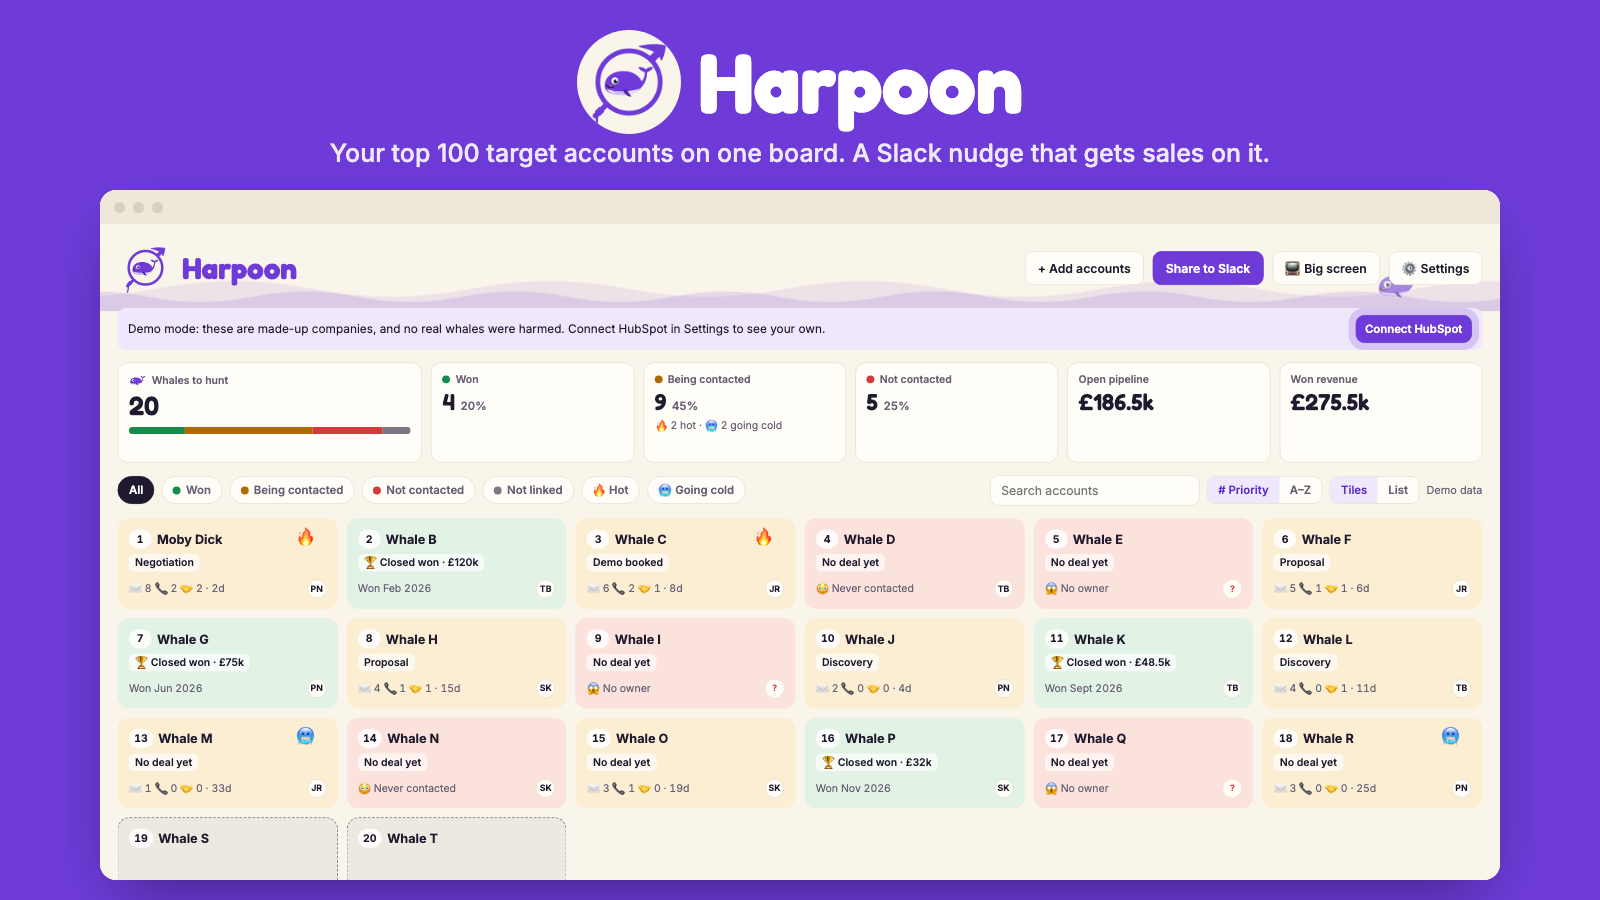
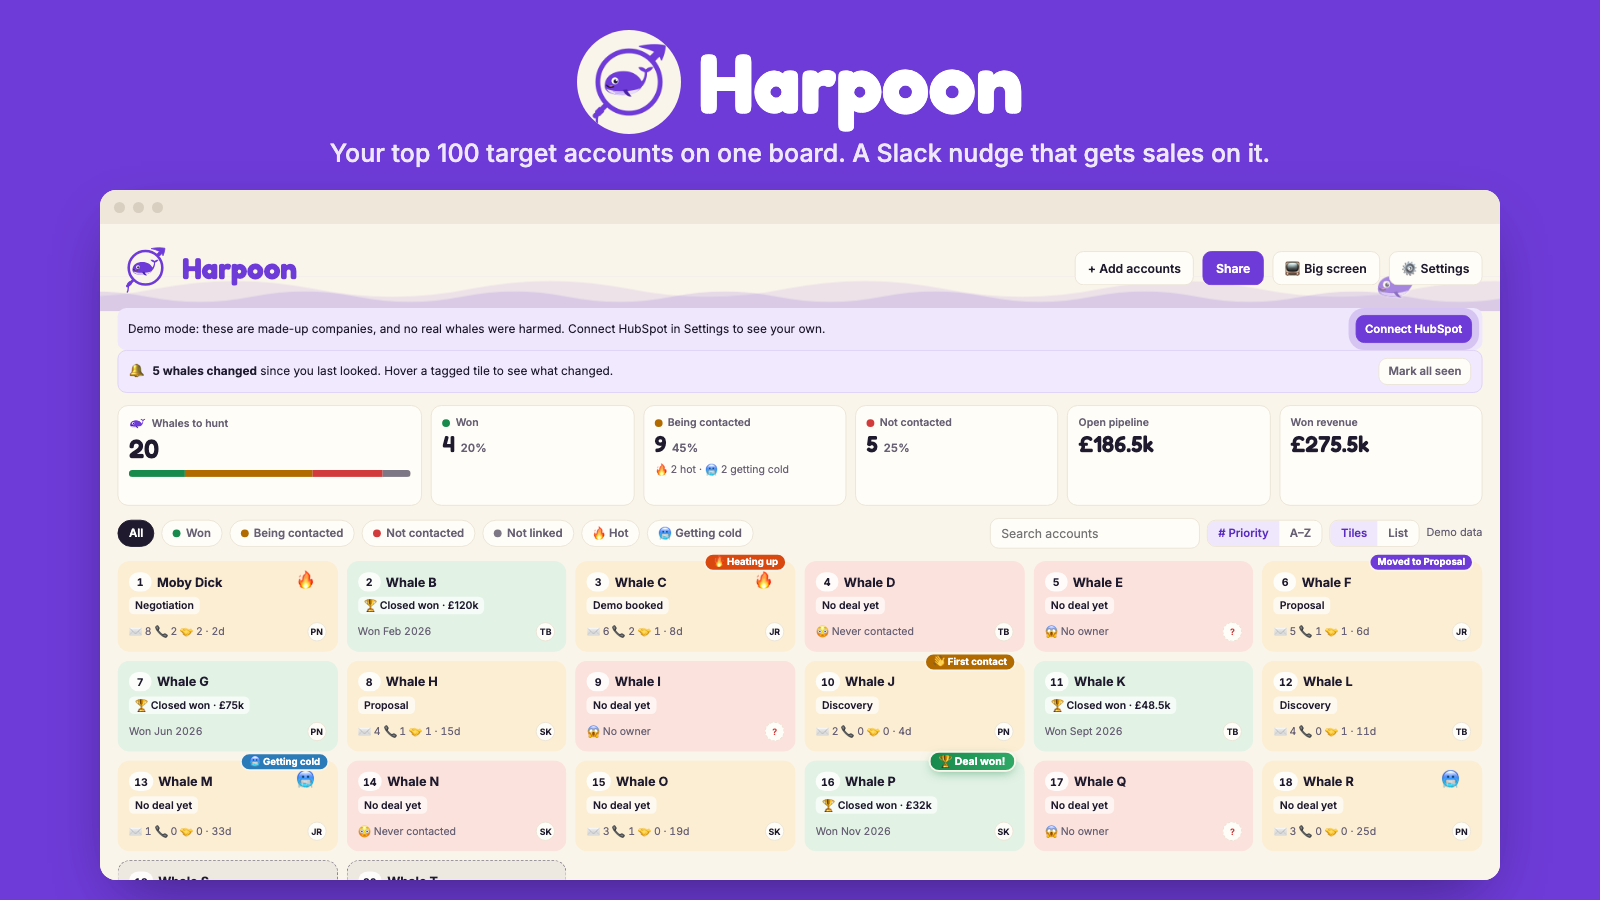
Batten down: "Going cold" is now "Getting cold" everywhere
- Filter, stats, tile tooltip, legend, Settings, the Slack message and
  the README all say "Getting cold", matching the change alerts.
- README cover image re-rendered with the new tags.

diff --git a/board.js b/board.js
@@ -114,7 +114,7 @@ function render() {
   renderBoard();
   renderLog();
   renderStatus();
-  $('legend').textContent = `🔥 Hot: ${S.hotTouches}+ touches and a touch in the last ${S.hotDays} days. 🥶 Going cold: no touch for ${S.coldDays}+ days. Change these in Settings.`;
+  $('legend').textContent = `🔥 Hot: ${S.hotTouches}+ touches and a touch in the last ${S.hotDays} days. 🥶 Getting cold: no touch for ${S.coldDays}+ days. Change these in Settings.`;
   document.querySelectorAll('#sortSeg button').forEach(b => b.setAttribute('aria-pressed', b.dataset.sort === (S.sort || 'rank')));
   document.querySelectorAll('#viewSeg button').forEach(b => b.setAttribute('aria-pressed', b.dataset.view === S.view));
 }
@@ -200,7 +200,7 @@ function renderStats() {
       <div class="bar" role="img" aria-label="${W} won, ${Y} being contacted, ${R} not contacted, ${G} not linked"><i style="width:${w(W)};background:var(--won)"></i><i style="width:${w(Y)};background:var(--amber)"></i><i style="width:${w(R)};background:var(--red)"></i><i style="width:${w(G)};background:var(--grey)"></i></div>
       <span class="hint hover-only">Ranked by priority, starting from #1</span></div>
     <div class="stat"><span class="k"><span class="dot" style="background:var(--won)"></span>Won</span><span class="v">${W} <small>${pct(W)}%</small></span></div>
-    <div class="stat"><span class="k"><span class="dot" style="background:var(--amber)"></span>Being contacted</span><span class="v">${Y} <small>${pct(Y)}%</small></span><span class="hint">🔥 ${hot} hot · 🥶 ${cold} going cold</span></div>
+    <div class="stat"><span class="k"><span class="dot" style="background:var(--amber)"></span>Being contacted</span><span class="v">${Y} <small>${pct(Y)}%</small></span><span class="hint">🔥 ${hot} hot · 🥶 ${cold} getting cold</span></div>
     <div class="stat"><span class="k"><span class="dot" style="background:var(--red)"></span>Not contacted</span><span class="v">${R} <small>${pct(R)}%</small></span></div>
     <div class="stat"><span class="k">Open pipeline</span><span class="v">${money(pipe, S.currency) || S.currency + '0'}</span></div>
     <div class="stat"><span class="k">Won revenue</span><span class="v">${money(wonAmt, S.currency) || S.currency + '0'}</span></div>`;
@@ -227,7 +227,7 @@ function tileInner(a) {
   else if (a.s === 'won') sub = `<span>${a.won && a.won.date ? 'Won ' + monthYear(a.won.date) : 'Customer'}</span>`;
   else if (a.s === 'red') sub = `<span>${a.why === 'noowner' ? '😱 No owner' : '😳 Never contacted'}</span>`;
   else sub = `<span>${a.missing ? 'Gone from HubSpot' : 'Not in HubSpot yet'}</span>`;
-  return `<span class="top"><span class="name"><span class="rk" title="Priority #${a.rank}">${a.rank}</span>${esc(a.name)}</span>${h ? `<span class="heat" title="${h === 'hot' ? 'Hot' : 'Going cold'}">${HEAT[h]}</span>` : ''}</span>
+  return `<span class="top"><span class="name"><span class="rk" title="Priority #${a.rank}">${a.rank}</span>${esc(a.name)}</span>${h ? `<span class="heat" title="${h === 'hot' ? 'Hot' : 'Getting cold'}">${HEAT[h]}</span>` : ''}</span>
     <span class="sr">${LABEL[a.s]}</span>${stg}<span class="row">${sub}${right}</span>`;
 }
 

diff --git a/lib/model.js b/lib/model.js
@@ -94,7 +94,7 @@ export function buildRundown(accounts, S, { full = true, demo = false } = {}) {
   });
   if (unowned.length) crew.push({ owner: '', text: unowned.join(', '), biggest: '' });
 
-  // next to hunt: the most important whale (lowest number) that nobody has contacted, nobody owns, or is going cold
+  // next to hunt: the most important whale (lowest number) that nobody has contacted, nobody owns, or is getting cold
   let next = null;
   const pick = accounts.find(a => a.s === 'red' || heat(a, S) === 'cold');
   if (pick && pick.s === 'red' && pick.why === 'nocontact') next = { rank: pick.rank, name: pick.name, reason: 'Owned but never contacted.', owner: pick.owner, action: 'time to make first contact.' };
@@ -122,7 +122,7 @@ export function rundownToSlack(r, S) {
   L.push(`:large_green_circle: ${r.won} won / :large_orange_circle: ${r.amber} being contacted / :red_circle: ${r.red} not contacted so far`);
   if (r.solo) L.push(`:moneybag: Open pipeline ${r.pipe} · Won ${r.wonAmt}`);
   if (r.hot.length) L.push(`:fire: Hot: ${esc(r.hot.join(', '))}`);
-  if (r.cold.length) L.push(`:cold_face: Going cold: ${esc(r.cold.join(', '))}`);
+  if (r.cold.length) L.push(`:cold_face: Getting cold: ${esc(r.cold.join(', '))}`);
   if (r.crew.length) {
     L.push('', "*Who's doing what*");
     r.crew.forEach(c => L.push(c.owner
@@ -141,7 +141,7 @@ export function rundownToSlack(r, S) {
 export function rundownToHTML(r) {
   const e = esc;
   let h = `<div>🐋 <b>${r.solo ? 'Ahoy Captain! Your whales to hunt' : 'Ahoy crew! Whales to hunt'}: ${r.total}</b>${r.demo ? ' <i>(demo data)</i>' : ''}<br>🟢 ${r.won} won / 🟠 ${r.amber} being contacted / 🔴 ${r.red} not contacted so far${r.solo ? `<br>💰 Open pipeline ${e(r.pipe)} · Won ${e(r.wonAmt)}` : ''}</div>`;
-  if (r.hot.length || r.cold.length) h += `<div>${r.hot.length ? `🔥 Hot: ${e(r.hot.join(', '))}` : ''}${r.hot.length && r.cold.length ? '<br>' : ''}${r.cold.length ? `🥶 Going cold: ${e(r.cold.join(', '))}` : ''}</div>`;
+  if (r.hot.length || r.cold.length) h += `<div>${r.hot.length ? `🔥 Hot: ${e(r.hot.join(', '))}` : ''}${r.hot.length && r.cold.length ? '<br>' : ''}${r.cold.length ? `🥶 Getting cold: ${e(r.cold.join(', '))}` : ''}</div>`;
   if (r.crew.length) h += `<div><b>Who's doing what</b><ul>${r.crew.map(c => c.owner
     ? `<li><b>${e(c.owner)}</b>: ${e(c.text)}${c.biggest ? ` · biggest: ${e(c.biggest)}` : ''}</li>`
     : `<li><b>😱 No owner</b>: ${e(c.text)}</li>`).join('')}</ul></div>`;

diff --git a/board.html b/board.html
@@ -32,7 +32,7 @@
     <button class="chip f" data-f="red" aria-pressed="false" type="button"><span class="dot" style="background:var(--red)"></span>Not contacted</button>
     <button class="chip f" data-f="grey" aria-pressed="false" type="button"><span class="dot" style="background:var(--grey)"></span>Not linked</button>
     <button class="chip f" data-f="hot" aria-pressed="false" type="button">🔥 Hot</button>
-    <button class="chip f" data-f="cold" aria-pressed="false" type="button">🥶 Going cold</button>
+    <button class="chip f" data-f="cold" aria-pressed="false" type="button">🥶 Getting cold</button>
     <input class="search" id="q" type="search" placeholder="Search accounts" aria-label="Search accounts">
     <div class="seg" role="group" aria-label="Sort" id="sortSeg"><button type="button" data-sort="rank" aria-pressed="true"># Priority</button><button type="button" data-sort="az" aria-pressed="false">A–Z</button></div>
     <div class="seg" role="group" aria-label="View" id="viewSeg"><button type="button" data-view="tiles" aria-pressed="true">Tiles</button><button type="button" data-view="list" aria-pressed="false">List</button></div>
@@ -204,7 +204,7 @@ Globex,</pre>
       <h3>Hot and cold</h3>
       <div class="nums">
         <span>🔥 Hot = at least <input class="field" id="hotT" type="number" min="1" max="99"> touches and a touch in the last <input class="field" id="hotD" type="number" min="1" max="365"> days</span>
-        <span>🥶 Going cold = no touch for <input class="field" id="coldD" type="number" min="1" max="999"> days</span>
+        <span>🥶 Getting cold = no touch for <input class="field" id="coldD" type="number" min="1" max="999"> days</span>
       </div>
     </section>
 

diff --git a/README.md b/README.md
@@ -47,7 +47,7 @@ Click the whale in Chrome's toolbar and the board opens in its own full-size tab
 | 🔴 **Not contacted** | 😱 Nobody owns it, or 😳 someone owns it but nothing is logged yet. |
 | ⚪ **Not linked** | You typed it in but it isn't matched to a HubSpot company yet. |
 
-On each tile: ✉ emails, 📞 calls and 🤝 meetings logged, the deal stage, and the owner. **🔥 Hot** means lots of recent contact; **🥶 Going cold** means no touch for weeks. You choose the numbers in Settings.
+On each tile: ✉ emails, 📞 calls and 🤝 meetings logged, the deal stage, and the owner. **🔥 Hot** means lots of recent contact; **🥶 Getting cold** means no touch for weeks. You choose the numbers in Settings.
 
 - **Hover a tile** for the detail: emails, calls, meetings, last touch, owner, deal value, lifecycle stage, a deal-stage progress strip, and the latest touches from HubSpot.
 - **Click a tile** to open that company in HubSpot.
@@ -73,7 +73,7 @@ Press **Share** to see a preview, copy it into an email or Teams, send it now, o
 🐋 Ahoy crew! Whales to hunt: 20
 🟢 4 won / 🟠 9 being contacted / 🔴 5 not contacted so far
 🔥 Hot: Moby Dick, Whale C
-🥶 Going cold: Whale M, Whale R
+🥶 Getting cold: Whale M, Whale R
 
 Who's doing what
 • Priya N.: working 3, won 1 · biggest: Moby Dick, £61k in Negotiation
@@ -89,7 +89,7 @@ Open the target account list in Harpoon →
 
 In **Just me** mode it says "Ahoy Captain! Your whales to hunt", adds your open pipeline and what you've won, and skips "Who's doing what" and the @-mentions.
 
-(The weekday version skips "Who's doing what" to stay short. "Who's doing what" never goes past five lines. "Next to hunt" is your highest-ranked whale that nobody has contacted, nobody owns, or is going cold.)
+(The weekday version skips "Who's doing what" to stay short. "Who's doing what" never goes past five lines. "Next to hunt" is your highest-ranked whale that nobody has contacted, nobody owns, or is getting cold.)
 
 ### 📸 Snapshot image
 
